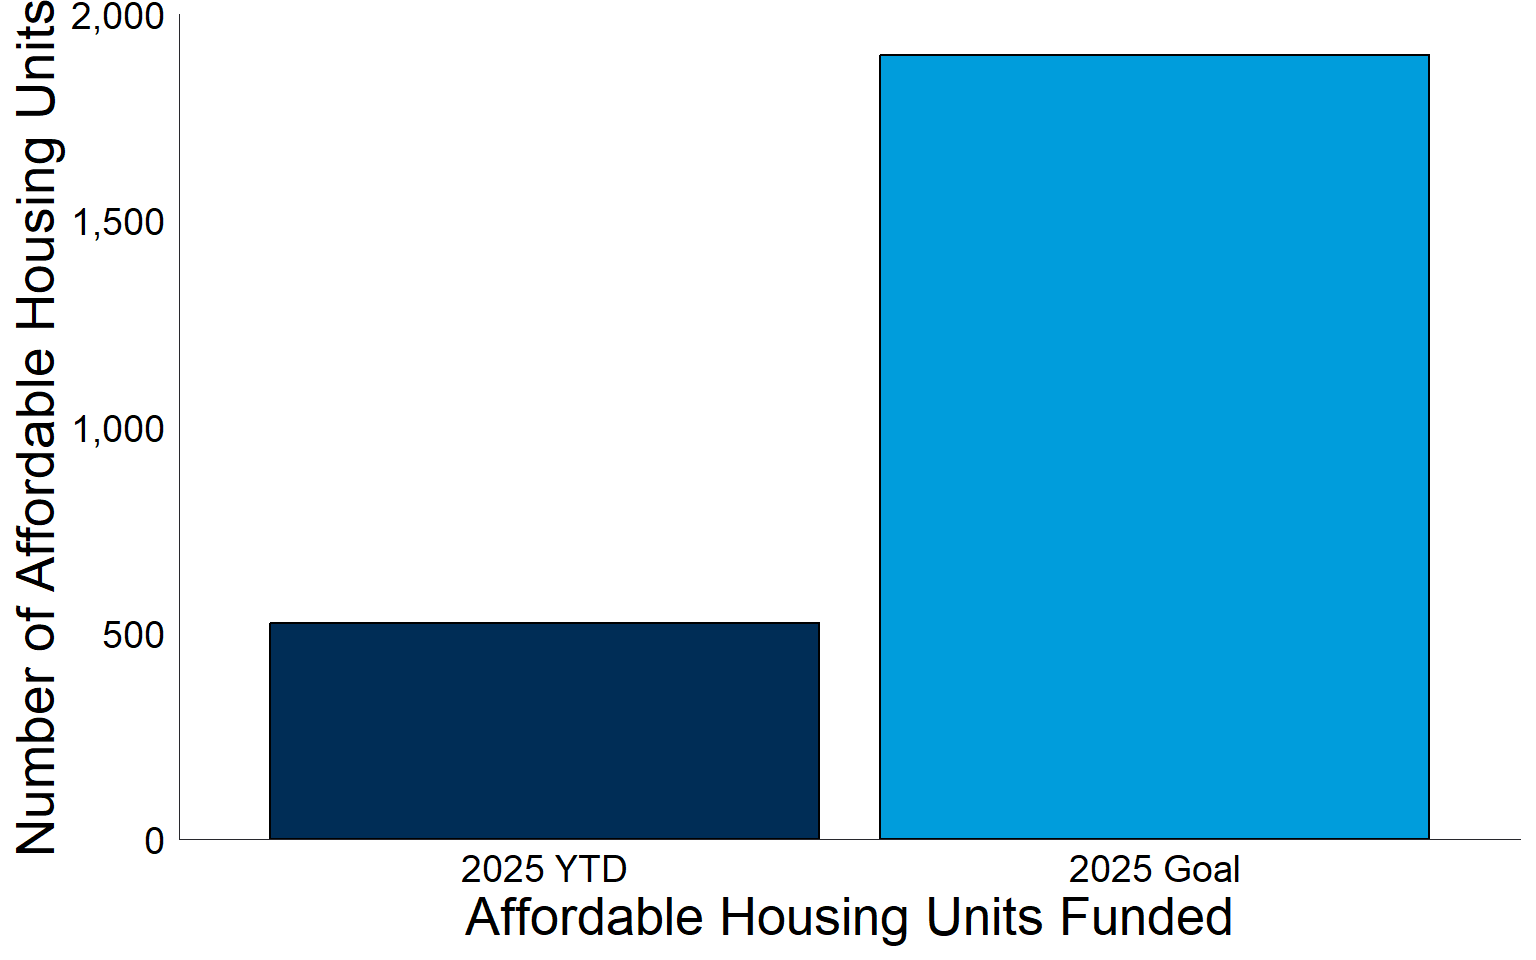
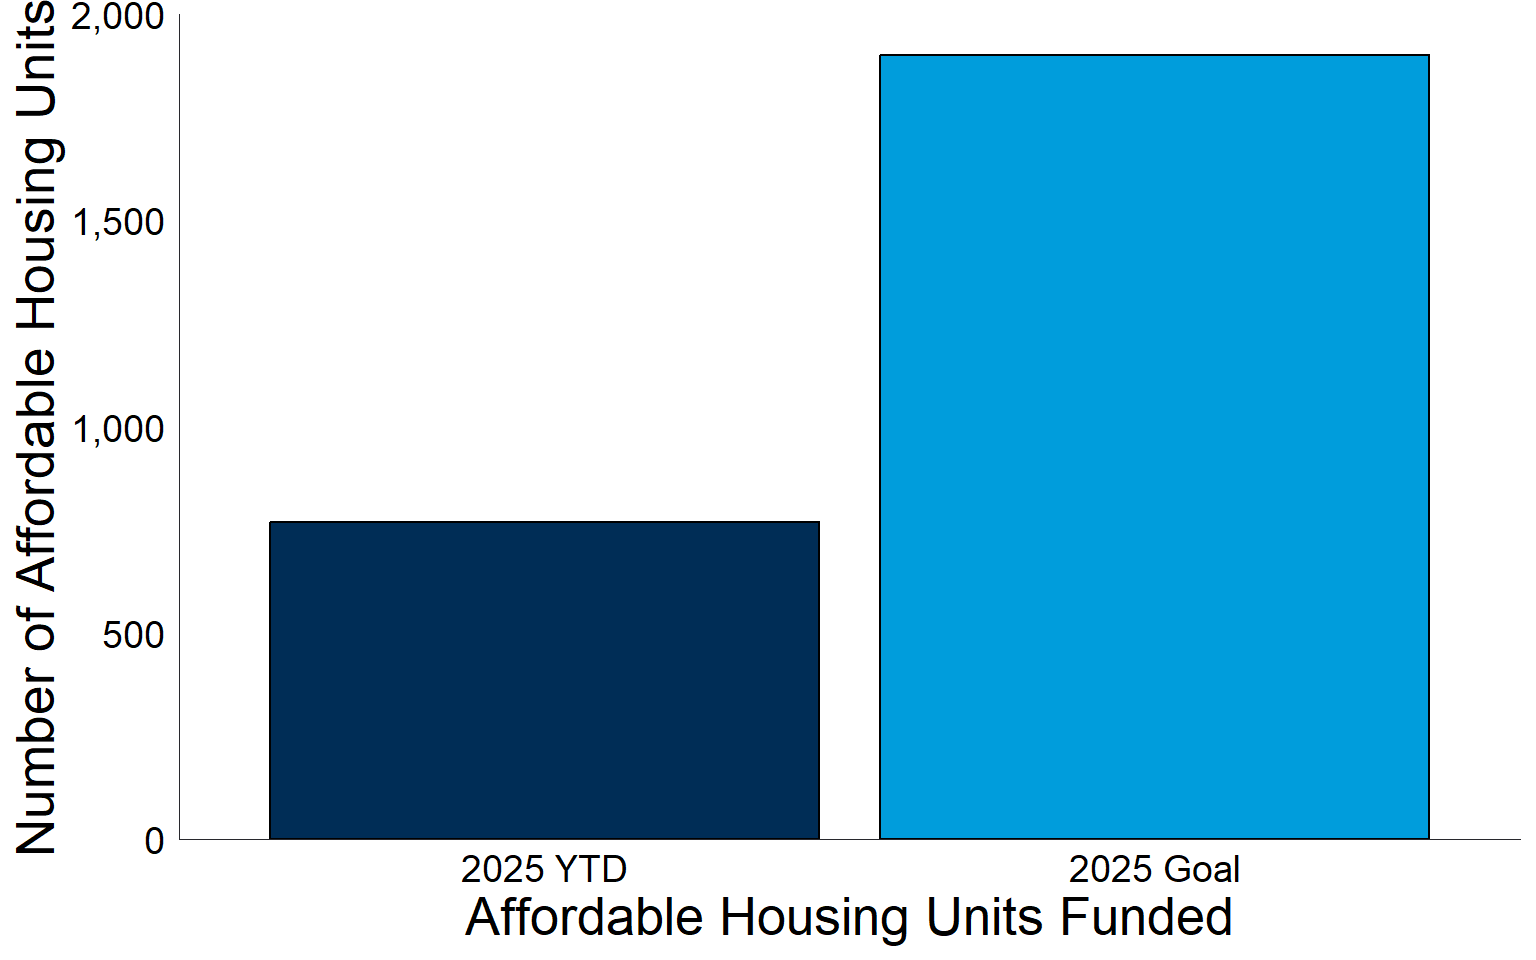
Built site for gh-pages

Changed region(s): [[0.1562, 0.5312, 0.5312, 0.6562]]

diff --git a/index.html b/index.html
@@ -89,7 +89,7 @@ grid-auto-rows: minmax(0, 1fr);">
 Total Capital Invested Across All Programs
 </p>
 <p class="value-box-value">
-$774.4 million
+$835.2 million
 </p>
 </div>
 </div>
@@ -105,7 +105,7 @@ $774.4 million
 Total Economic Impact
 </p>
 <p class="value-box-value">
-$3.1 Billion
+$3.7 Billion
 </p>
 </div>
 </div>
@@ -121,7 +121,7 @@ $3.1 Billion
 Total Capital Invested in Disinvested Neighborhoods
 </p>
 <p class="value-box-value">
-12.8%
+14.9%
 </p>
 </div>
 </div>
@@ -164,7 +164,7 @@ Total Capital Investment
 <div class="card-body html-fill-item html-fill-container">
 <div class="quarto-figure quarto-figure-center html-fill-item html-fill-container">
 <figure class="figure">
-<p><a href="https://iatl.maps.arcgis.com/apps/instant/basic/index.html?appid=112649da7b1d4fa58098c16cc402dcc4" target="_blank"><img src="wins_map_20250709.png" class="img-fluid figure-img" style="width:55.0%"></a></p>
+<p><a href="https://iatl.maps.arcgis.com/apps/instant/basic/index.html?appid=112649da7b1d4fa58098c16cc402dcc4" target="_blank"><img src="wins_map_20250910.png" class="img-fluid figure-img" style="width:55.0%"></a></p>
 <figcaption>Click the image to explore our interactive online investment map</figcaption>
 </figure>
 </div>
@@ -193,7 +193,7 @@ grid-auto-rows: minmax(0, 1fr);">
 Direct Investment
 </p>
 <p class="value-box-value">
-$7.4 Million
+$7.7 Million
 </p>
 </div>
 </div>
@@ -209,7 +209,7 @@ $7.4 Million
 Small Businesses Funded (Grants and Loans)
 </p>
 <p class="value-box-value">
-33
+37
 </p>
 </div>
 </div>
@@ -225,7 +225,7 @@ Small Businesses Funded (Grants and Loans)
 Small Businesses Receiving Business Consulting Services
 </p>
 <p class="value-box-value">
-412
+467
 </p>
 </div>
 </div>
@@ -241,7 +241,7 @@ Small Businesses Receiving Business Consulting Services
 Small Business Funded in Disinvested Neighborhoods
 </p>
 <p class="value-box-value">
-36.3%
+30.8%
 </p>
 </div>
 </div>
@@ -327,7 +327,7 @@ $21.5 Million
 TAD Financing
 </p>
 <p class="value-box-value">
-$6.9 Million
+$7.9 Million
 </p>
 </div>
 </div>
@@ -343,7 +343,7 @@ $6.9 Million
 TAD Project Leveraged Capital
 </p>
 <p class="value-box-value">
-$201 Million
+$202 Million
 </p>
 </div>
 </div>
@@ -429,7 +429,7 @@ grid-auto-rows: minmax(0, 1fr);">
 Total Capital Invested (Housing)
 </p>
 <p class="value-box-value">
-$282.8 million
+$338.2 Million
 </p>
 </div>
 </div>
@@ -445,7 +445,7 @@ $282.8 million
 Total Affordable Housing Units Financed
 </p>
 <p class="value-box-value">
-525
+770
 </p>
 </div>
 </div>
@@ -461,7 +461,7 @@ Total Affordable Housing Units Financed
 Affordable Units &lt;60% AMI
 </p>
 <p class="value-box-value">
-392
+534
 </p>
 </div>
 </div>
@@ -477,7 +477,7 @@ Affordable Units &lt;60% AMI
 Homeownership Incentives (Down Payment, Home Rehab)
 </p>
 <p class="value-box-value">
-167
+183
 </p>
 </div>
 </div>
@@ -547,7 +547,7 @@ grid-auto-rows: minmax(0, 1fr);">
 Total Capital Investment (Jobs &amp; Employment)
 </p>
 <p class="value-box-value">
-$328.2 Million
+$328.8 Million
 </p>
 </div>
 </div>
@@ -563,7 +563,7 @@ $328.2 Million
 Total Jobs Impact
 </p>
 <p class="value-box-value">
-2,900
+3,033
 </p>
 </div>
 </div>
@@ -595,7 +595,7 @@ New Good Jobs Created
 Business Development Projects Closed
 </p>
 <p class="value-box-value">
-34
+37
 </p>
 </div>
 </div>
